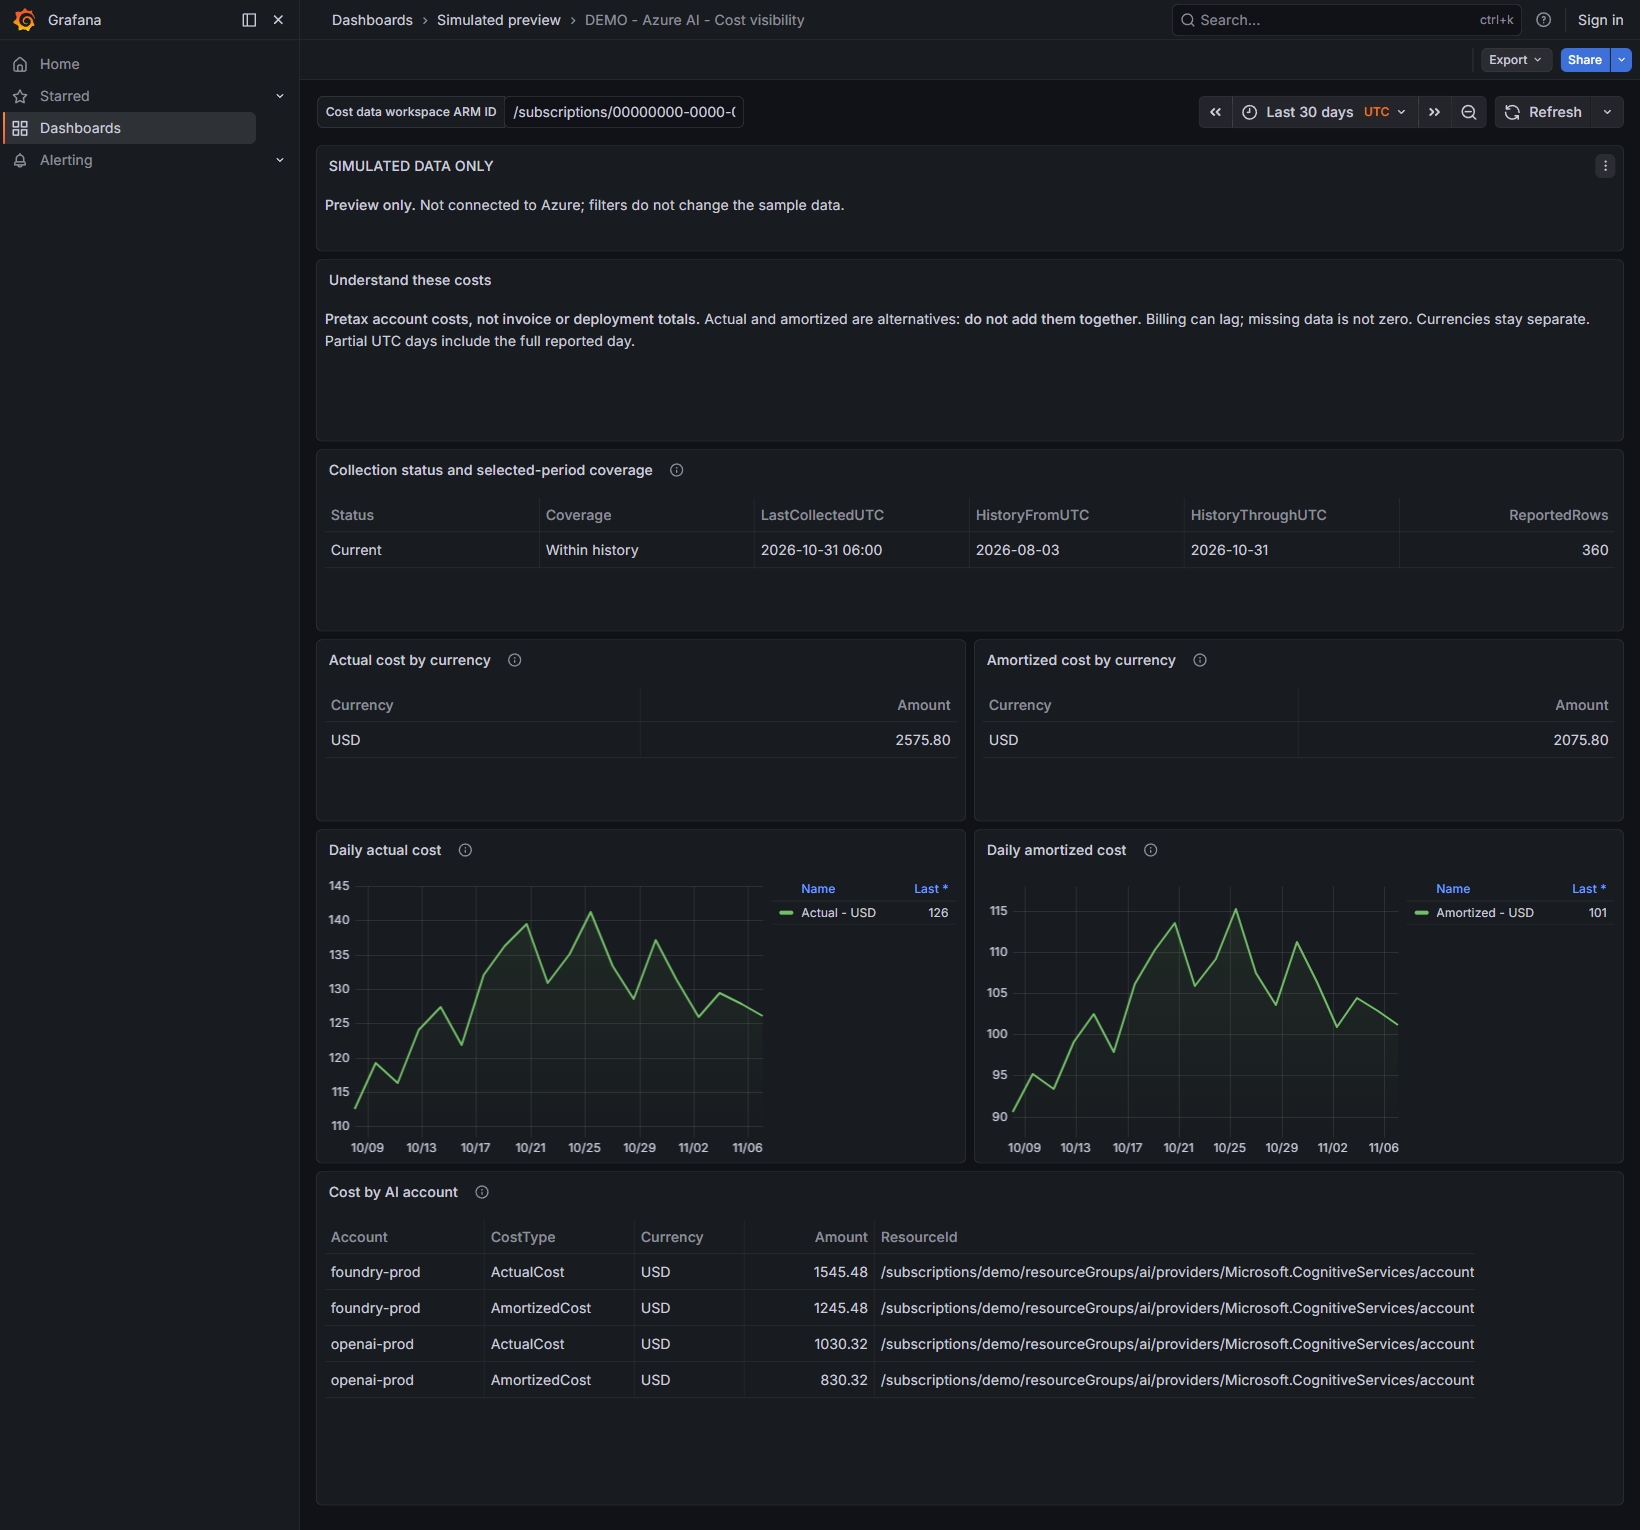
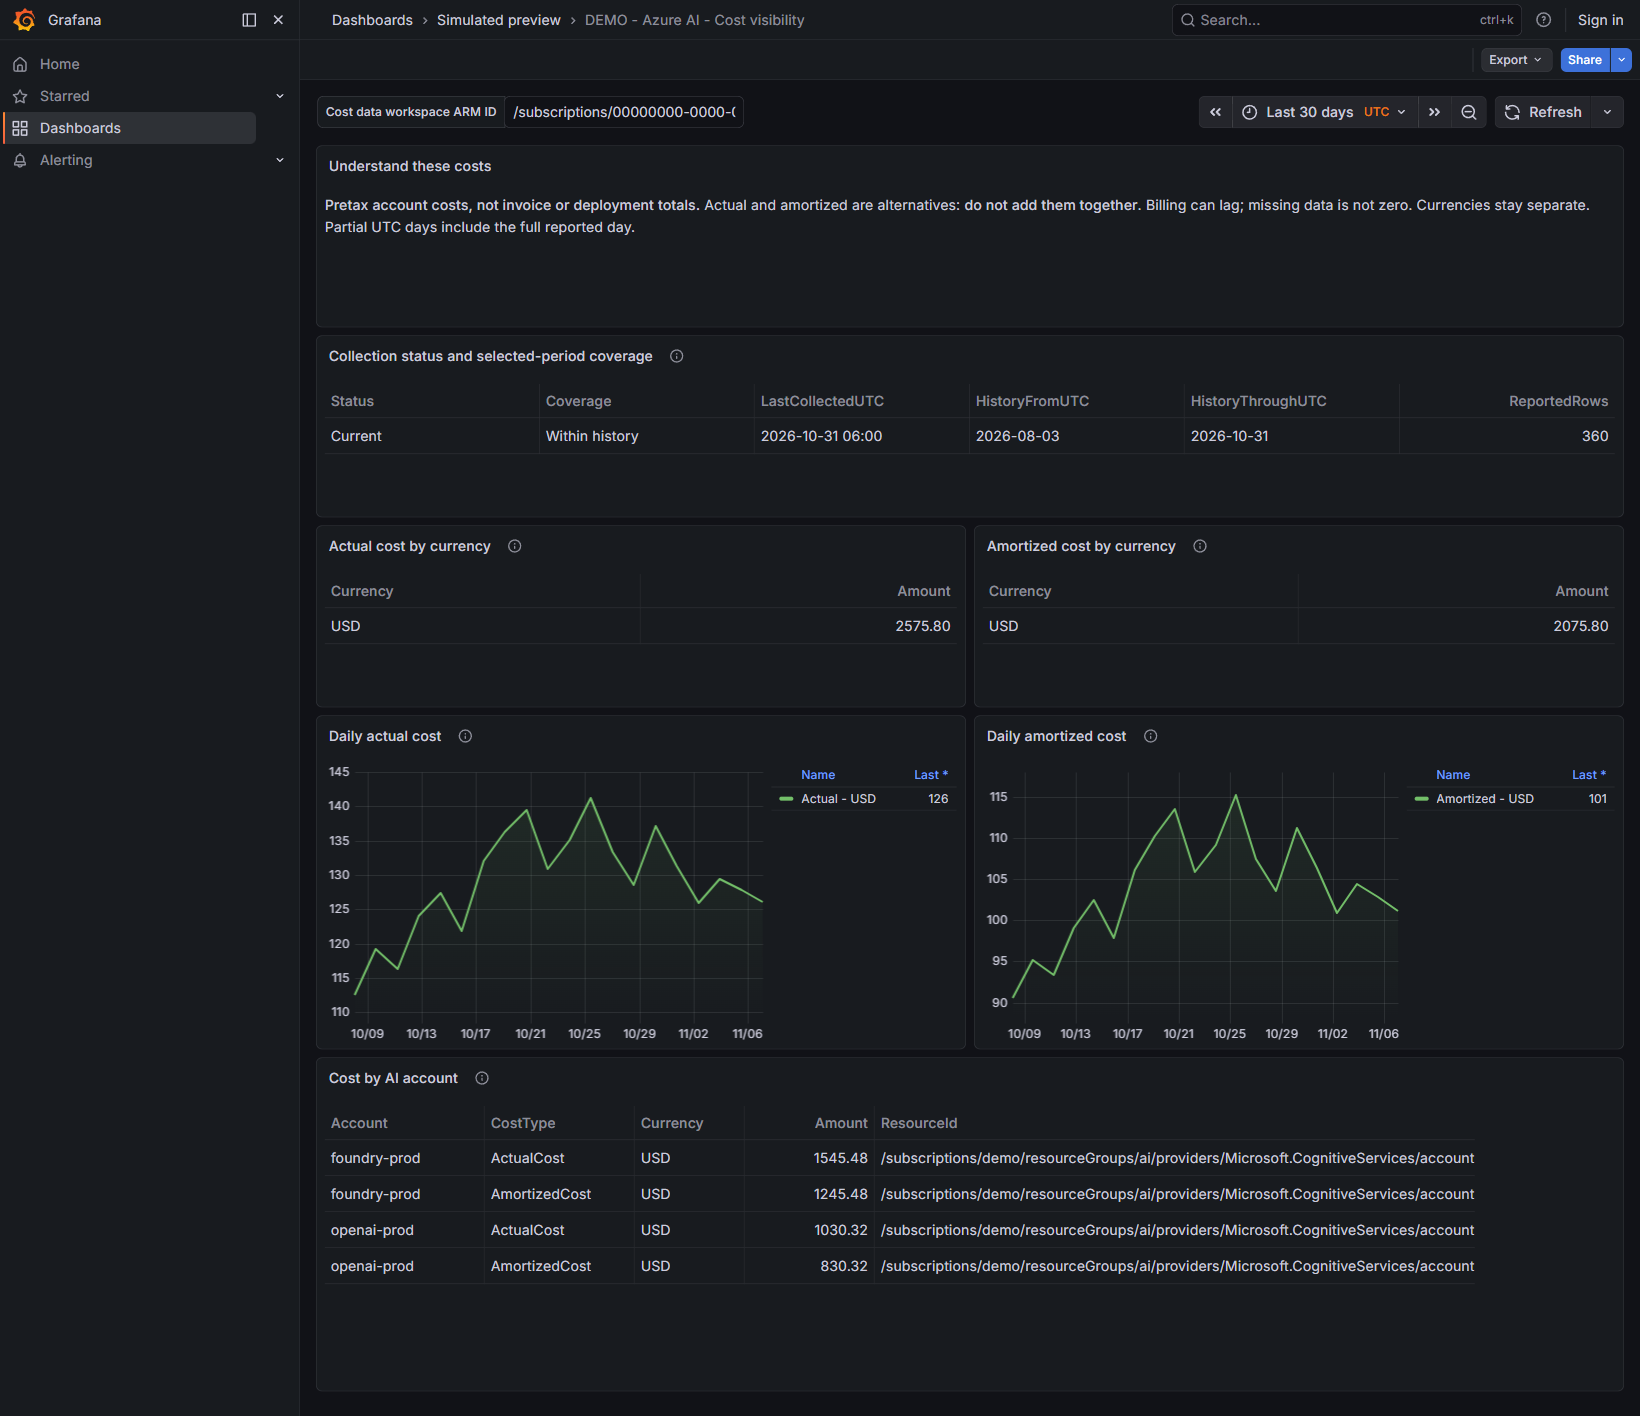
Add security checks and refresh dashboard previews

diff --git a/SECURITY.md b/SECURITY.md
@@ -1,0 +1,18 @@
+# Security
+
+## Reporting a vulnerability
+
+Please report suspected vulnerabilities privately through
+[GitHub's vulnerability reporting form](https://github.com/michael-rechani/azure-ai-observability/security/advisories/new).
+Do not post exploit details, credentials, or customer data in a public issue.
+Include the affected component, reproduction steps, and sanitized evidence where possible.
+
+## Automated checks
+
+- GitHub secret scanning and push protection, plus Gitleaks scanning of the checked-out Git history.
+- Dependabot alerts and monthly grouped updates for GitHub Actions, Python dependencies, Terraform providers, and the Grafana Compose image.
+- CodeQL default setup for Python and GitHub Actions; these languages do not cover PowerShell or infrastructure files.
+- `pip-audit` for the optional Python examples and OpenSSF Scorecard for repository supply-chain practices.
+- Checkov scans checked-in Terraform and Bicep. Its findings are **report-only** and appear in workflow logs, an artifact, and, where permitted, GitHub code scanning. Scanner and parsing errors fail the job. Pull requests from forks or Dependabot retain the artifact but do not upload SARIF with a write token.
+
+These are static checks, not a guarantee of security or a review of deployed Azure resources. Checkov may not understand every Azure resource or expression. Review its findings, access controls, public endpoints, cost-collector permissions, and your own Azure configuration before production use.

diff --git a/docs/terraform.md b/docs/terraform.md
@@ -146,4 +146,11 @@ terraform -chdir=terraform\grafana test
 
 Mock tests do not contact Azure/Grafana and cannot prove that provider authentication, Flex deployment, region/SKU availability, metric dimensions, dashboards, KQL, billing permissions, or alert delivery work in your environment. Keep the provider lock files committed and use the same locked versions in automation.
 
+When updating providers, refresh the lock files for the platforms used by CI and contributors before committing them:
+
+```powershell
+terraform -chdir=terraform\azure providers lock -platform=linux_amd64 -platform=windows_amd64 -platform=darwin_amd64 -platform=darwin_arm64
+terraform -chdir=terraform\grafana providers lock -platform=linux_amd64 -platform=windows_amd64 -platform=darwin_amd64 -platform=darwin_arm64
+```
+
 **Destruction is destructive:** removing resources from configuration or running `terraform destroy` can remove dashboards, alerts, Grafana, telemetry resources, and stored telemetry. Review every plan and your retention policies. If intentionally retiring the entire stack, handle the Grafana stage first while the endpoint remains reachable, then the Azure stage. Existing model deployments and target account resources are not Terraform-managed.

diff --git a/README.md b/README.md
@@ -1,4 +1,6 @@
-# Azure AI observability
+# Azure AI Observatory
+
+**Foundry agents · OpenAI PTUs · Cost visibility**
 
 Monitoring-only starter for **Microsoft Foundry** and **Azure OpenAI provisioned throughput (PTUs)**, with separate dashboards on shared **Azure Managed Grafana + Azure Monitor + Application Insights / Log Analytics** infrastructure.
 
@@ -140,6 +142,8 @@ These commands do not deploy anything. CI also validates and mock-tests both Ter
 - Log retention defaults to 30 days with a 1 GB daily ingestion cap. A cap can cause gaps and is **not** a complete spending limit.
 - The opt-in cost collector receives **Cost Management Reader for the subscription**, even though it queries only the selected account IDs. Grafana Viewer access is read-only, not a data-isolation boundary.
 - Grafana hosting, telemetry ingestion/retention, alert rules, Function execution, and storage can incur charges. PTU deployment and reservation charges remain separate.
+
+For repository security checks and private vulnerability reporting, see [SECURITY.md](SECURITY.md).
 
 ## References
 
